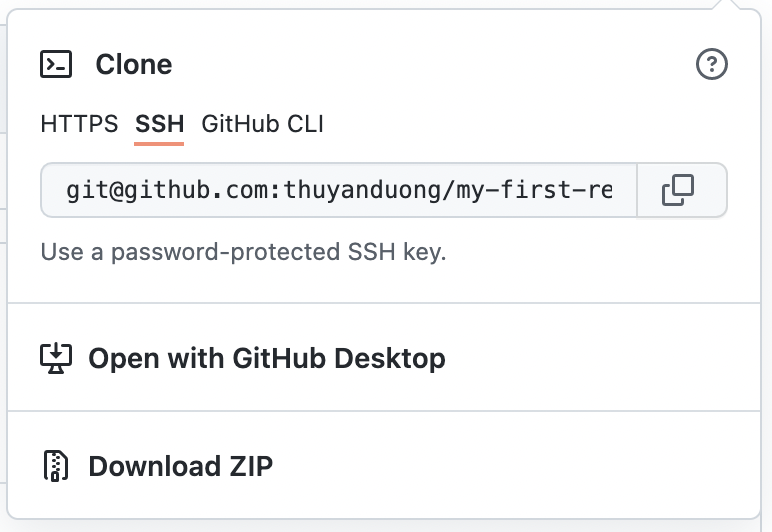
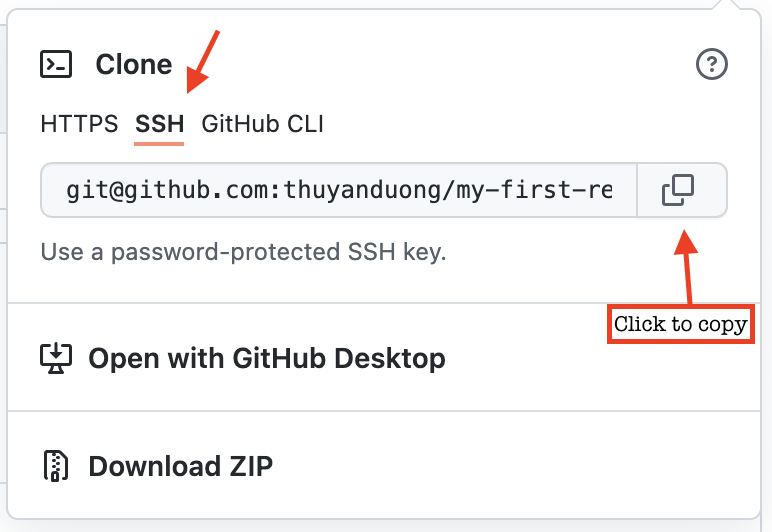
updating github setup instructions

Changed region(s): [[0.7772, 0.4211, 0.9948, 0.6617], [0.2176, 0.0602, 0.2798, 0.1805]]

diff --git a/environment-setup/github-setup.md b/environment-setup/github-setup.md
@@ -1,31 +1,47 @@
-# Configure Your Github Account
+# Configure Your GitHub Account
 
-You will be using Github individually and collaboratively. We will set up your development environment to be able to communicate with your Github account. You'll be able to clone code from a remote repo using SSH and make changes to it on your computer.
+You will be using GitHub individually to store your portfolio projects and collaboratively to work on group projects. We will set up your development environment to be able to communicate with your GitHub account. You'll be able to clone code from a remote repo to your local computer by using the Secure Shell (SSH) protocol in the Terminal and make changes to it on your computer.
 
 **Table of Contents:**
-- [Create a Github Account](#create-a-github-account)
-- [Configuring Github with your Terminal](#configuring-github-with-your-terminal)
-- [Create a Repository on Github](#create-a-repository-on-github)
-- [Name your repository](#name-your-repository)
-- [Add SSH Key](#add-ssh-key)
+- [Create a GitHub Account](#create-a-github-account)
+- [Configuring Your Terminal to Work With Your GitHub](#configuring-your-terminal-to-work-with-your-github)
+- [Create A Repository](#create-a-repository)
+- [Create an SSH Key](#create-an-ssh-key)
 - [Clone Using SSH](#clone-using-ssh)
 
+## Create a GitHub Account
 
-## Create a Github Account
+**GitHub** is like a social network for developers, making it easy to backup, share and collaborate on projects. Your GitHub profile will become the first thing that employers look at to see the projects you've worked on and to get a sense of the kind of developer you are!
 
-[Create a free Github Account](https://github.com/join). Remember the email and username that you enter. If you already have one, you can skip to the next step.
+Start by [creating a free GitHub Account](https://github.com/join). 
 
-## Configuring Github with your Terminal
+**The username you choose for your profile should include your first and last name.** Keep it professional. 
 
-1. In your Terminal application (the folder you're in doesn't matter), we first want to ensure that you can use the `git` tool for the next few steps. 
-   1. Start by running the command `git --version` which will print the current version of the `git` tool on your computer. 
-   2. If you are using a Mac and this is your first time, a popup called **Install Command Line Developer Tools** will appear. Follow the instructions to install on your computer.
+If you already have an account and it does not include your first and last name, you may update it in the settings or you can create a new account.
 
-2. Once this is done, in your Terminal, run the following lines. Be sure to replace `Your Name` and `Your Github Email Address` with your actual Github login information:
+Write down your username and password so you don't forget it!
+
+## Configuring Your Terminal to Work With Your GitHub
+
+GitHub is where we store our code online. It does have a drag-and-drop upload tool but it is more common to use the `git` tool in your Terminal to upload your code.
+
+To do so, we need to connect your Terminal to your GitHub account.
+
+1. Open the Terminal application. Start by running the command:
+    
+    ```bash
+    git --version
+    ``` 
+
+    which will print the current version of the `git` tool on your computer. This just confirms that you have the `git` tool
+
+2. If you are using a Mac and this is your first time, a popup called **Install Command Line Developer Tools** will appear. Follow the instructions to install them on your computer.
+
+3. Once this is done, in your Terminal, run the following lines. Be sure to replace `[Your Name]` and `[Your GitHub Email Address]` with your actual GitHub login information:
 
 ```sh
-git config --global user.name "Your Name"
-git config --global user.email "Your Github Email Address"
+git config --global user.name "[Your Name]"
+git config --global user.email "[Your GitHub Email Address]"
 git config --global credential.helper store
 ```
 
@@ -38,68 +54,111 @@ git config --global user.email
 
 The terminal should print out your name and email.
 
-## Create a Repository on Github
+## Create A Repository
 
-1. Navigate to Github in the browser and log in. ON the left, click the button to create a new repository.
+A **repository** is a digital place where we store our code. It's essentially a folder. By creating that repository on GitHub, instead of on our own computer, anyone can see the code we're writing and can collaborate on it (with permission).
 
-![1](./img/github-setup-1.png)
+Navigate to GitHub in the browser and log in. On the left side you should see a **New** button to create a new repository. Click it.
 
-## Name your repository
-Name your repository `my-first-repo`. Choose to add a README.md file. Create the repository.
+![Step 1. Create a new repository.](./img/github-setup-1.png)
 
-![2](./img/github-setup-2.png)
+Then, fill out the form to configure the repository:
+* Choose your account as the owner of this repository. 
+* Name your repository `my-first-repo`. 
+* Toggle the switch for **Add README** to "On". 
+* Click **Create repository**.
 
-## Add SSH Key
+![Step 2. Configure your repository](./img/github-setup-2.png)
 
-While we're configuring GitHub, we should add a new SSH key to allow you to push and pull from Github using SSH. 
+## Create an SSH Key
 
-1. First, check if you already have an SSH key by running `ls ~/.ssh`. If the terminal prints out a file(s) that look like `id_ed25519.pub` then you already have a key.
+If we wanted to add files to this repository or download the contents of it, GitHub has a fairly standard drag-and-drop file system for upload and a button to download.
+
+However, it is more common to use the `git` tool in our Terminal to send and receive code via the Secure Shell (SSH) communication protocol.
+
+> SSH is a communication protocol. Other communication protocols you may have heard of include:
+> * SMS (Short Messaging Service): the original, non-encrypted protocol used by cellular networks to send and receive text-only messages.
+> * HTTP (Hypertext Transfer Protocol): the foundation of the World Wide Web, used for receiving website code and other data from web servers.
+
+To enable this communication between our Terminal and our GitHub repos, we need to generate and add an **SSH Key** to our account.
+
+1. First, check if you already have an SSH key by running `ls ~/.ssh`. If the terminal lists out any file(s) with a name called `id_ed25519.pub` then you already have a key.
 
 2. If the running previous step printed "No such file or directory", then run `ssh-keygen -t ed25519` to create a key.
-    - It will ask you to enter a file to save the key, leave it blank and press enter. It will say that it created the directory `/Users/<your_username>/.ssh`
-    - It will ask you to enter a passphrase, leave it blank and press enter twice to confirm.
-    - If you've done every correctly, you should be something like this printed to your terminal:
+    - It will ask you to enter a file to save the key. Just press enter which will use a default location. It will say that it created the directory `/Users/[your_username]/.ssh`
+    - It will ask you to enter a passphrase. Just press Enter.
+    - If you've done every correctly, you should be something like this printed to your terminal (read it!):
 
-![4](./img/ed25519.png)
+      ![The SSH key has been generated](./img/ed25519.png)
 
-Run `cat ~/.ssh/id_ed25519.pub` in your terminal. Copy the output (starting from `ssh-ed25519` and ending in `.local`). You'll need it for the next step
+3. Run `cat ~/.ssh/id_ed25519.pub` in your terminal and copy the output (starting from `ssh-ed25519` and ending in `.local`). You'll need it for the next step
 
-1. Navigate to the homepage of Github in your browser. Go to your account settings:
+4. Navigate to the homepage of GitHub in your browser. Go to your account settings:
 
-![5](./img/github-setup-5.png)
+    ![Go to GitHub Settings](./img/github-setup-5.png)
 
-Click "SSH and GPG Keys":
+5. Click "SSH and GPG Keys":
 
-![6](./img/github-setup-6.png)
+    ![Select SSH and GPG Keys](./img/github-setup-6.png)
 
-Click the "New SSH key" button:
+6. Click the "New SSH key" button:
 
-![7](./img/github-setup-7.png)
+    ![Click New SSH Key](./img/github-setup-7.png)
 
-Put a description title about what environment the SSH key is associated to. For example, if you are setting up a Marcy Macbook, name it something like "Marcy Macbook", or if it's your personal laptop you can name it "Personal Marcy Computer". Open the 'Key type' dropdown and select 'Authentication Key'. Paste the key in the text area and click "Add SSH key".
+7. Configure the new SSH key on GitHub:
+   
+   
+    * The title should identify the computer that the SSH key came from. For example, "personal laptop" or "Marcy Macbook".
+    * Open the **Key type** dropdown and select "Authentication Key". 
+    * Paste the key in the text area.
+    * The form should look like this:
+    ![Configure your SSH key](./img/addSSHkey.png)
 
-![9](./img/addSSHkey.png)
-
+8.  Click **Add SSH key**
+   
 ## Clone Using SSH
 
-1. Go back to your repository on Github. Then, click on the Code button and make sure the pop-up has "SSH" underlined and selected. The url should start with `git@github.com:...`. If this is not the case, click the link that say `SSH`. Copy that URL in the text box.
+Now that your GitHub profile has stored the SSH key generated by your computer, your computer will be authorized to upload and download code from your repositories using the Secure Shell (SSH) protocol.
 
-![13](./img/github-setup-13.png)
+1. Go back to your repository on GitHub. 
+2. Then, click on the green **Code** button. Select the SSH protocol, and copy the `git@github.com...` by clicking on the copy button.
 
-2. Back in your code editor's terminal, make sure that you have a `Unit-0` folder and that your "working directory" is your `Unit-0` folder. If not, `cd Unit-0` to jump into it. Clone down the project using `git clone repo_ssh_url`, replacing `repo_ssh_url` with the URL you copied from the previous step. If asked, "Are you sure you want to continue connecting", type `yes`. 
+    ![Copy the SSH URL](./img/github-setup-13.png)
 
-3. Then change directory into your project `cd my-first-repo` or whatever you named your repository. 
+3. Open up VS Code and open your terminal. 
+4. Navigate in your terminal to your `Development/mod-0` folder. If you set up your directories properly, you should be able to use the command:
 
-4. Once your repo can been cloned down, use the vsCode IDE to update the `README.md` **inside of your `my-first-repo` project**. This is not to be confused with the `README.md` in the root folder of your environment. You should specifically open and edit the one in your `my-first-repo` folder. **Add a 3-4 sentence bio about yourself**. Be sure to save the file.
+    ```sh
+    cd ~/Development/mod-0
+    ```
 
-5. Push the changes back up to Github using best practices. In the terminal, run:
-```sh
-git status
-git add README.md
-git commit -m "added bio"
-git push
-```
-6. Go back to Github to view your repository in the browser. Refresh the page and confirm that you see your newly added bio!
+5. Clone (download) down the project using the command:
+    
+    ```sh
+    git clone [git_url_here]
+    ```
+
+    replacing `[git_ssh_url]` with the URL you copied from your GitHub repository. 
+    
+    If asked, "Are you sure you want to continue connecting", type `yes`. 
+
+6. Enter the command `ls` to see that a new folder `my-first-repo` has been added to the `mod-0` directory!
+
+7. Navigate into that folder with the command `cd my-first-repo`
+
+8. Once your repo can been cloned down (downloaded), you should see also it in your file system in VS Code. Expand the folder and open the `README.md` file.
+9. In The `README.md` file, **Add a 3-4 sentence bio about yourself**. Be sure to save the file.
+
+10. Push (upload) the changes to GitHub using the `git` commands below:
+    
+    ```sh
+    git status
+    git add README.md
+    git commit -m "added bio"
+    git push
+    ```
+
+11. You've just uploaded your code from your computer to GitHub. Go back to GitHub to view your repository in the browser. Refresh the page and confirm that you see your newly added bio!
 
 # Final Step
 
